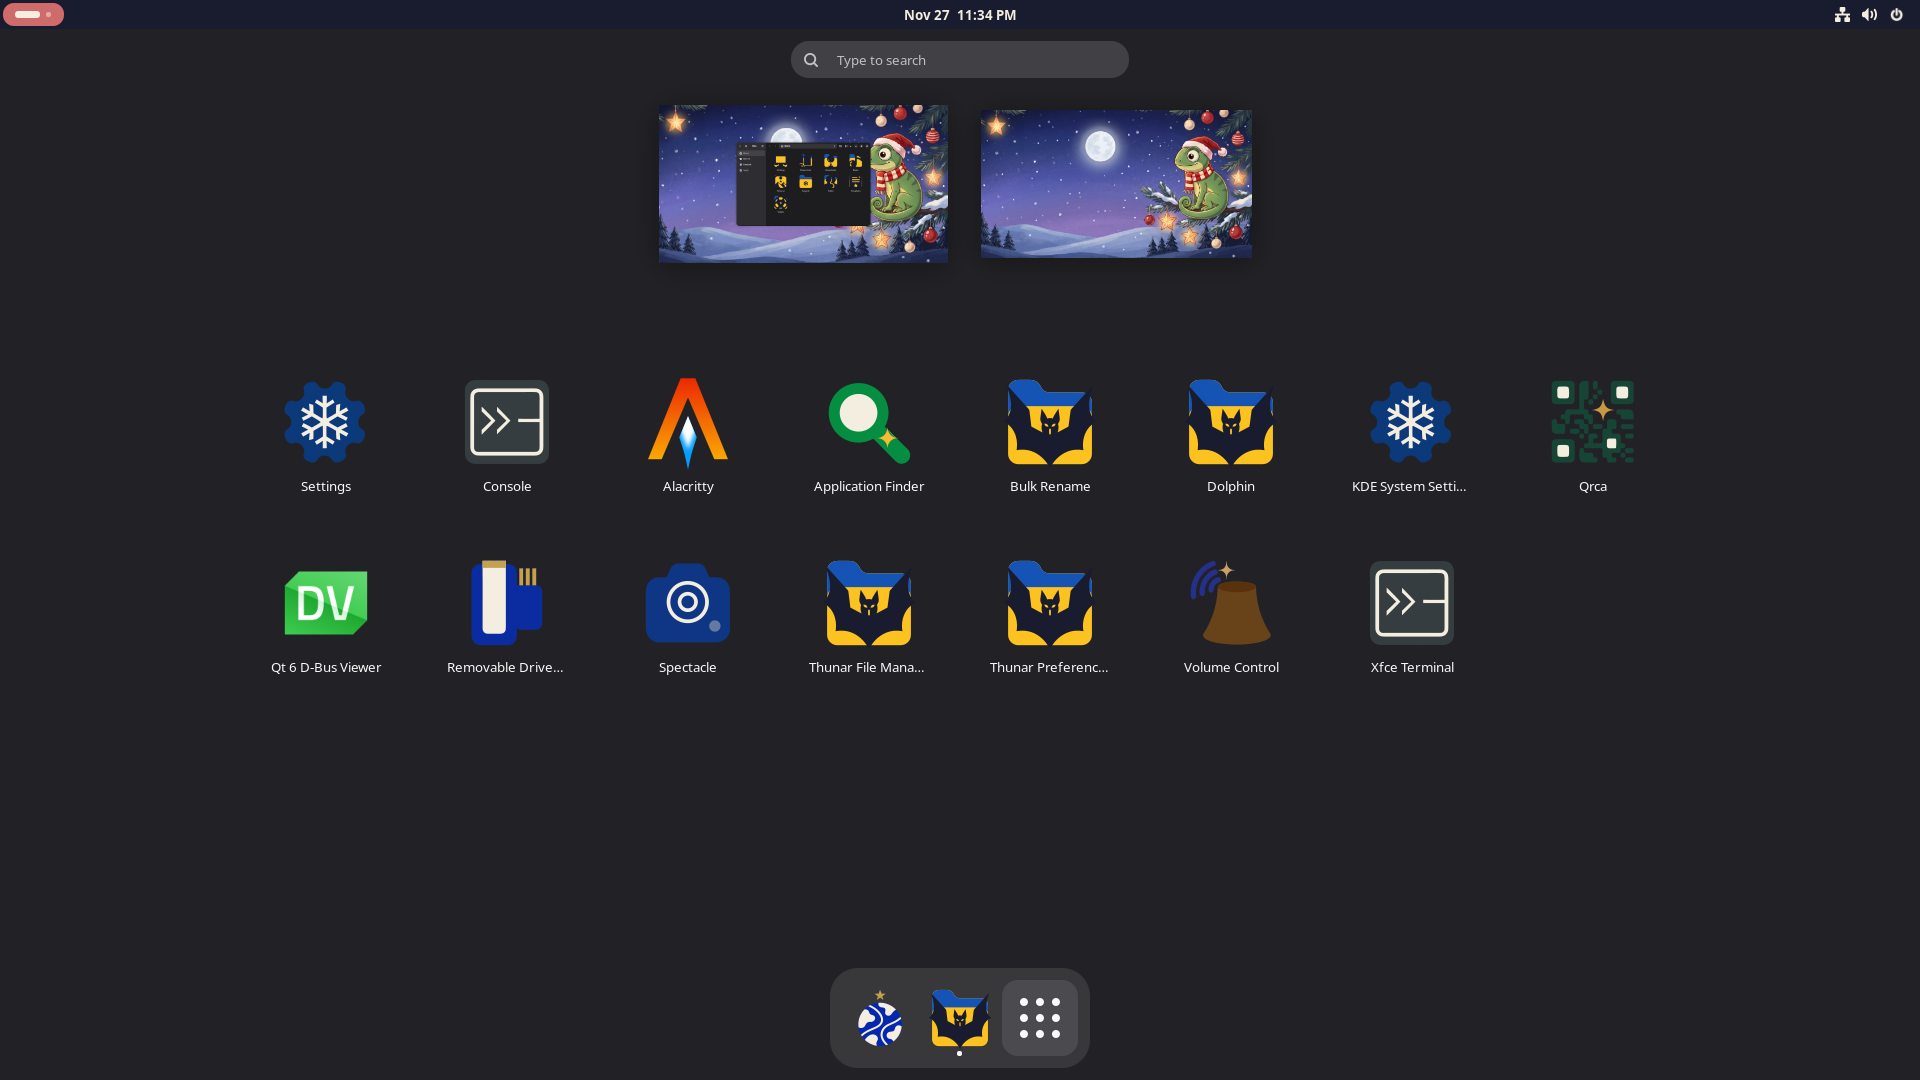
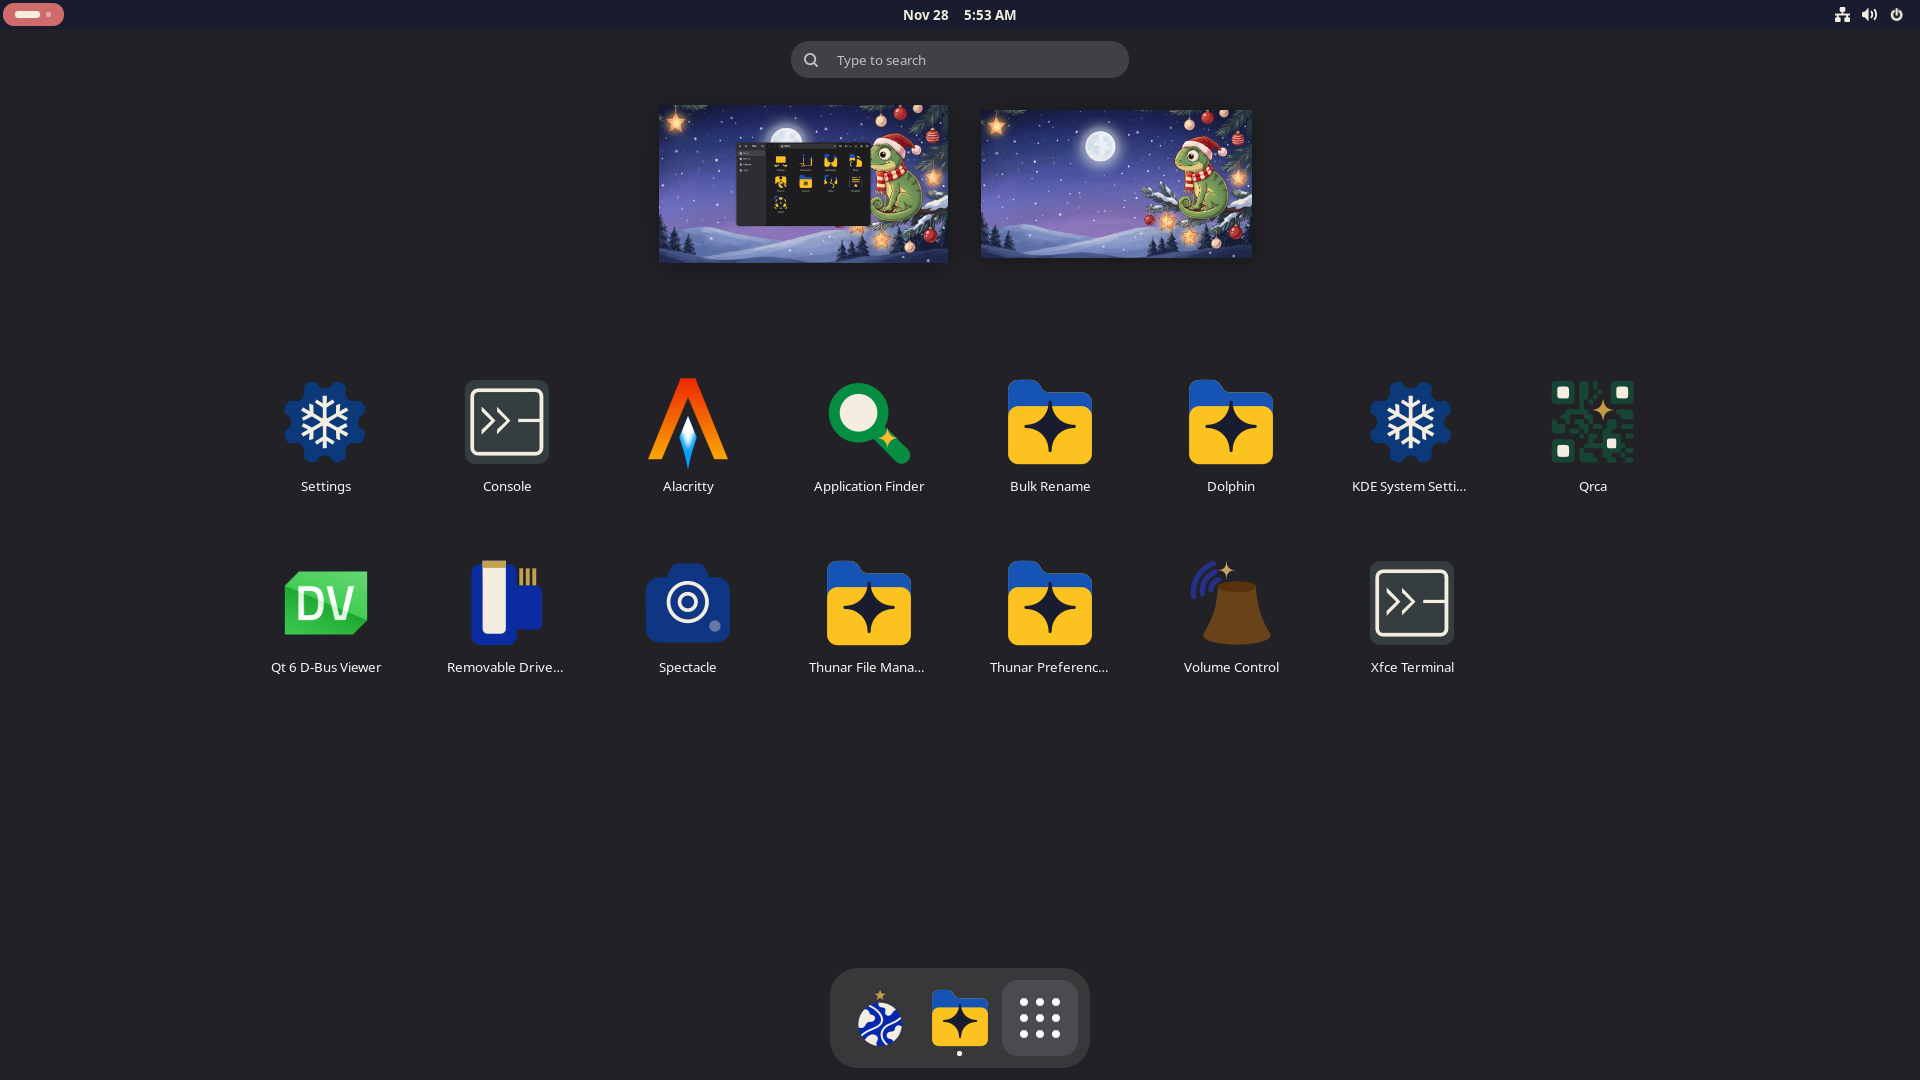
Christmas file managers: sparkle instead of bat, gallery refreshed

diff --git a/tools/vectors.py b/tools/vectors.py
@@ -61,7 +61,7 @@ ALIASES = {
 EMBLEM_SCALE = 1.12      # emblem size relative to the master's leaf
 
 # Colour application icons: master -> the icon names apps ask for, on KDE,
-# GNOME and Xfce alike (a file manager is the bat folder everywhere, a
+# GNOME and Xfce alike (a file manager is the sparkle folder everywhere, a
 # terminal the same terminal). Other projects' logos (Qt, the ArtCraft suite,
 # btop) are left to their own themes, like the distribution logo. Web
 # browsers, Firefox included, get an original browser icon, never a modified
@@ -230,7 +230,8 @@ MIME_EMBLEMS = {
 }
 MIME_EMBLEM_SIZE = 0.66   # emblem size relative to the page's width
 
-# Dolphin is the master folder with a bat, like Breeze's folder with a dolphin
+# File managers are the master folder with a sparkle, echoing the splash's
+# star lanterns (the brief forbids Halloween's bat).
 DOLPHIN = ("org.kde.dolphin", "system-file-manager", "org.gnome.Nautilus", "org.xfce.thunar", "org.xfce.filemanager")
 
 # One-colour icons of the app menu and the leave/power actions: master ->
@@ -449,12 +450,12 @@ def split_folder(shapes):
     return body, leaf, front.colour
 
 
-def emblem_markup(shapes, box, ink, paper):
+def emblem_markup(shapes, box, ink, paper, scale=EMBLEM_SCALE):
     """Fit a black-on-white glyph into `box`, dark parts in `ink`, light parts in `paper`."""
     glyph = [s for s in shapes if luminance(s.colour) < 0.5]
     gbox = union(s.bbox() for s in glyph)
     cx, cy = (box[0] + box[2]) / 2, (box[1] + box[3]) / 2
-    size = max(box[2] - box[0], box[3] - box[1]) * EMBLEM_SCALE
+    size = max(box[2] - box[0], box[3] - box[1]) * scale
     body = "".join(s.markup(ink if luminance(s.colour) < 0.5 else paper) for s in shapes
                    if inside(s.bbox(), gbox))
     return fit(body, gbox, (cx - size / 2, cy - size / 2, size))
@@ -609,11 +610,12 @@ def app_icons(palette):
         if shapes:
             text = icon(paint(shapes, palette), union(s.bbox() for s in shapes), 0.06)
             made.update({f"scalable/apps/{n}.svg": text for n in names})
-    folder, bat = load("folder"), load("emblem-bat")
-    if folder and bat:
+    folder, sparkle = load("folder"), load("glyph-sparkle")
+    if folder and sparkle:
         body, leaf, front = split_folder(folder)
         text = icon("".join(s.markup() for s in body)
-                    + emblem_markup(bat, union(s.bbox() for s in leaf), palette["night"], front),
+                    + emblem_markup(sparkle, union(s.bbox() for s in leaf), palette["night"], front,
+                                      scale=EMBLEM_SCALE * 0.55),
                     union(s.bbox() for s in folder), 0.06)
         made.update({f"scalable/apps/{n}.svg": text for n in DOLPHIN})
     return made

diff --git a/art/prompts/13-glyphs.md b/art/prompts/13-glyphs.md
@@ -33,7 +33,7 @@
   `art/source/vectors/glyph-touch.svg`,
   `art/source/vectors/glyph-wand.svg`,
   `art/source/vectors/glyph-web.svg`,
-  `art/source/vectors/glyph-window.svg`, `art/source/vectors/emblem-bat.svg`,
+  `art/source/vectors/glyph-window.svg`,
   `art/source/vectors/glyph-logout.svg`, `art/source/vectors/mime-page.svg`
 - Copyright: 2026 Martin Pluskal <martin@pluskal.org>
 
@@ -46,3 +46,5 @@ One-colour black-silhouette glyphs for settings pages, symbolic actions and GNOM
 Adversarial review (all four angles, twice): fixed a trousers-reading bookmark, frog stylus, paper-plane cursor, duplicate wireframe globes, moon-only hibernate, missing logout and file-manager bat masters, grey shading, gear-notifications and compass hijacks (both dropped). Declined with reasons: 16px variants (icon-polish follow-up), micro-speck stripping (sub-pixel, invisible rendered).
 
 Late additions in review: `glyph-logout` (door + arrow, was missing entirely) and a cream `mime-page` document base (a stray black page was staged by mistake and replaced).
+
+Retired after the 2026.12.0 release: `emblem-bat` (a Halloween leftover against the brief) was deleted; file-manager icons use `glyph-sparkle` as their folder emblem instead (code change only, no new art).
